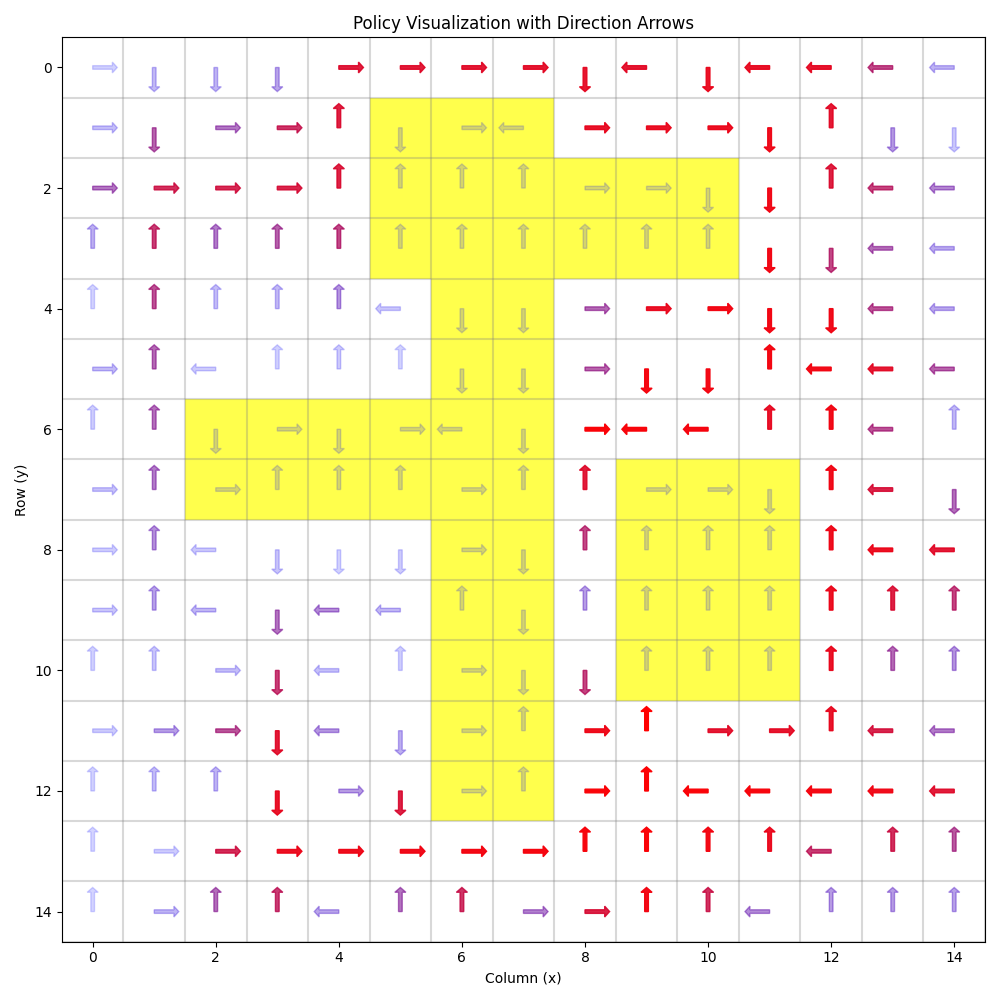
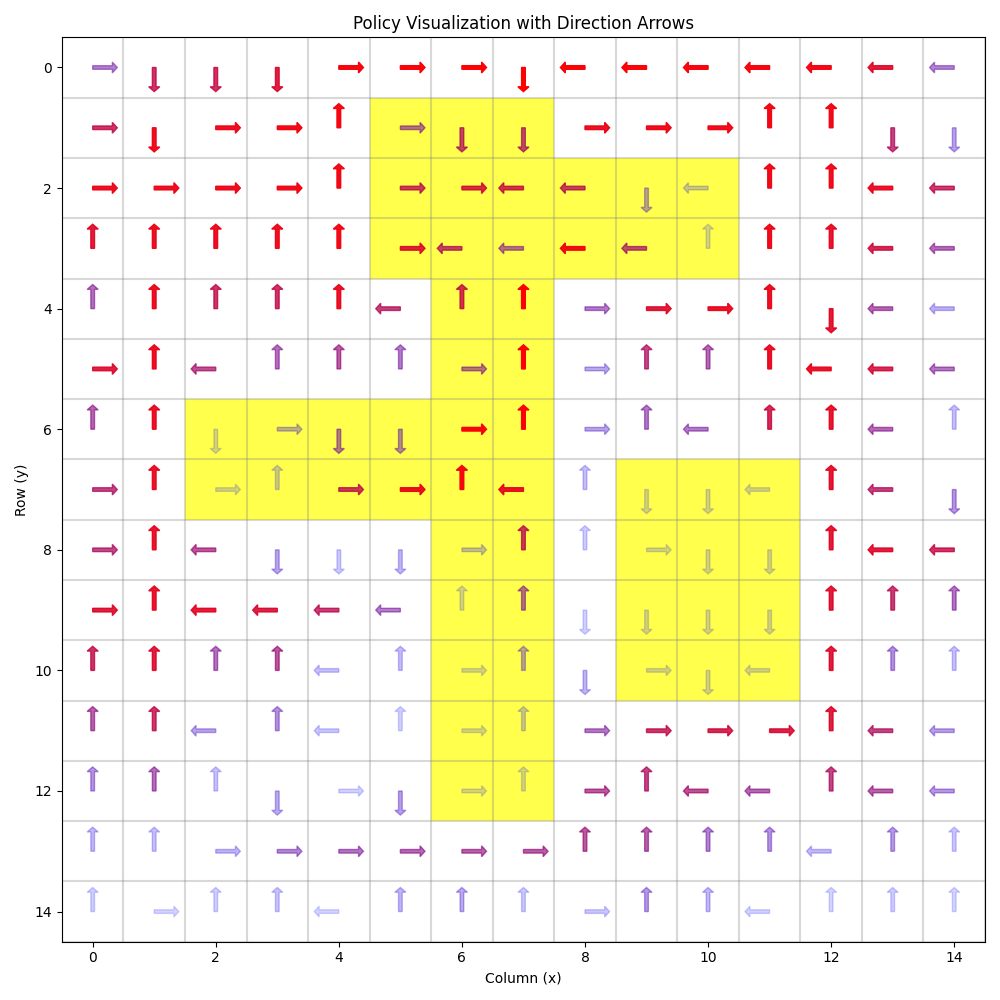
save current as backup, find dilate region and skip singular goals interior

diff --git a/project/learning.py b/project/learning.py
@@ -24,7 +24,7 @@ class AtomicTask:
         self.name = name
         self.ifml = formula
         self.formula = formula_parser(formula)    
-        self.goals_regions = room.goals
+        self.goal_regions = room.goals
         self.full_goals = torch.where(room.terrain>=2, 1, 0).to(dtype=torch.bool)
 
         if isinstance(self.formula, ltlf.LTLfUntil):
@@ -51,7 +51,7 @@ class AtomicTask:
         elif isinstance(formula, ltlf.LTLfOr):
             return atomic_or([self._valid_region(f) for f in formula.formulas])
         elif isinstance(formula, ltlf.LTLfAtomic):
-            return self.goals_regions[formula.s]
+            return self.goal_regions[formula.s]
         
     def task_complete(self, loc):
         return self.goal_valid[loc[0], loc[1]] > 0 and self.condition_valid[loc[0], loc[1]].item() > 0
@@ -59,24 +59,35 @@ class AtomicTask:
     def get_policy(self, qmodel:GoalOrientedBase):
         avoid_region = torch.logical_not(self.condition_valid)
         # Create a dilated avoid region by including adjacent cells
-        dilated_avoid = torch.zeros_like(avoid_region)
-        h, w = avoid_region.shape
-        for i in range(h):
-            for j in range(w):
-                if avoid_region[i,j]:
-                    dilated_avoid[i,j] = 1
-                    # Add adjacent cells (up, down, left, right, diagonals)
-                    for di in [-1,0,1]:
-                        for dj in [-1,0,1]:
-                            ni, nj = i+di, j+dj
-                            if 0 <= ni < h and 0 <= nj < w:
-                                dilated_avoid[ni,nj] = 1
+
+        def dilate_region(mask, reflex=False):
+            h, w = mask.shape 
+            adj_coords = [(-1,0), (1,0), (0,-1), (0,1)]
+            if qmodel.env.n_actions == 8:
+                adj_coords.extend([(-1,-1), (-1,1), (1,-1), (1,1)])
+            dilation = torch.zeros_like(mask)
+            for i, j in torch.nonzero(mask):
+                for di, dj in adj_coords:
+                    ni, nj = i+di, j+dj
+                    if 0 <= ni < h and 0 <= nj < w:
+                        dilation[ni,nj] = 1
+            if reflex:
+                dilation[i,j] = 0     # Orignal avoid region is safe
+            return dilation
+
+        dilated_avoid = dilate_region(avoid_region, True)
         unsafe_coords = torch.nonzero(dilated_avoid)
-        print(unsafe_coords.shape)
-        safe_policy = qmodel.q_compose(qmodel.Q_joint, [1])
-        policy = qmodel.q_compose(qmodel.Q_subgoal, [1])
-        ux, uy = unsafe_coords[:,0], unsafe_coords[:,1]
-        policy[ux, uy] = safe_policy[ux, uy]
+        print(f"The unsafe region for elk has {unsafe_coords.shape[0]} cells.")
+
+        for gname, mask in self.goal_regions.items():
+            if any(mask[unsafe_coords[:,0], unsafe_coords[:,1]]):
+                print(f"The goal {gname} has intersection with the unsafe region.")
+
+        safe_policy = qmodel.q_compose(qmodel.Q_joint, [2])
+        policy = qmodel.q_compose(qmodel.Q_subgoal, [2])
+        # policy = torch.maximum(policy, safe_policy)
+        # ux, uy = unsafe_coords[:,0], unsafe_coords[:,1]
+        # policy[ux, uy] = safe_policy[ux, uy]
         return policy
         
 def dfa_and(atomic_qs):
@@ -206,11 +217,11 @@ if __name__ == "__main__":
     # # at = AtomicTask("F goal_2", room)
     # print(at)
     # policy = at.get_policy(goal_learner)
-    at = AtomicTask("!(goal_1 & goal_3) U goal_2", room)
+    at = AtomicTask("!(goal_1) U goal_3", room)
     policy = at.get_policy(goal_learner)
     room.draw_policy(policy, fn=f"{elk_name}_at")
-    policy = goal_learner.q_compose(goal_learner.Q_joint, [1])
-    room.draw_policy(policy, fn=f"{elk_name}_joint")
+    # policy = goal_learner.q_compose(goal_learner.Q_joint, [0,2])
+    # room.draw_policy(policy, fn=f"{elk_name}_joint")
     # for i in range(len(room.goals)):
     #     subgoal_policy = goal_learner.q_compose(goal_learner.Q_subgoal, [i])
     #     # policy = policy.max()+policy.min()-policy

diff --git a/project/boolean_task.py b/project/boolean_task.py
@@ -135,6 +135,8 @@ class GoalOrientedBase:
         # Create groups of overlapping goal regions
         goal_groups = self._partition_goals()
         for gmask, members in goal_groups:
+            if len(members) <= 1:
+                continue
             self.epsilon = epsilon  # reset epsilon
             self.env._first_restriction = True
             for iteration in range(num_iterations*1):
@@ -151,23 +153,18 @@ class GoalOrientedBase:
                             all_reached_gr = []
                             training_finished = True
                             if done >= 2:
-                                if len(members) > 1:
-                                    for i, mask in goal_regions:
-                                        if mask[next_state[0], next_state[1]]:
-                                            all_reached_gr.append(i)
-                                    if not all_reached_gr:
-                                        raise ValueError("Goal not reached, why done >= 2? Should check the code.")
-                                if len(members) <= 1 or m not in all_reached_gr:
+                                for i, mask in goal_regions:
+                                    if mask[next_state[0], next_state[1]]:
+                                        all_reached_gr.append(i)
+                                if not all_reached_gr:
+                                    raise ValueError("Goal not reached, why done >= 2? Should check the code.")
+                                if m not in all_reached_gr:
                                     reward = 0
                                     training_finished = False
                                     all_reached_gr = []
                             else:
                                 all_reached_gr = list(range(len(self.goal_regions)))
-                                if len(members) <= 1:
-                                    all_reached_gr.remove(m)
-                                    reward = 1
-                                else:
-                                    reward = -10
+                                reward = -10
 
                             self._train_jointq(state, action, reward, next_state, all_reached_gr)
                             if training_finished: 

diff --git a/project/ltl_util.py b/project/ltl_util.py
@@ -122,11 +122,7 @@ def formula_to_dfa(ifml, file_name):
     return [False], mona_in
 
 if __name__ == "__main__":
-    print(formula_to_dfa("F(a) T (b U c)", "example")[0][1])
-    # print(MONA_PATH)
-    
-    # with open("project/ltlf_tools/mona.exe", "rb") as f:
-    #     b = f.read()
-    #     farr = np.frombuffer(b, dtype=np.uint8)
-    #     print(farr.max())
- 
+    parser = LTLfParser()
+    formula = parser("!a | !b")
+    # print(formula)
+    print(formula.to_nnf())
